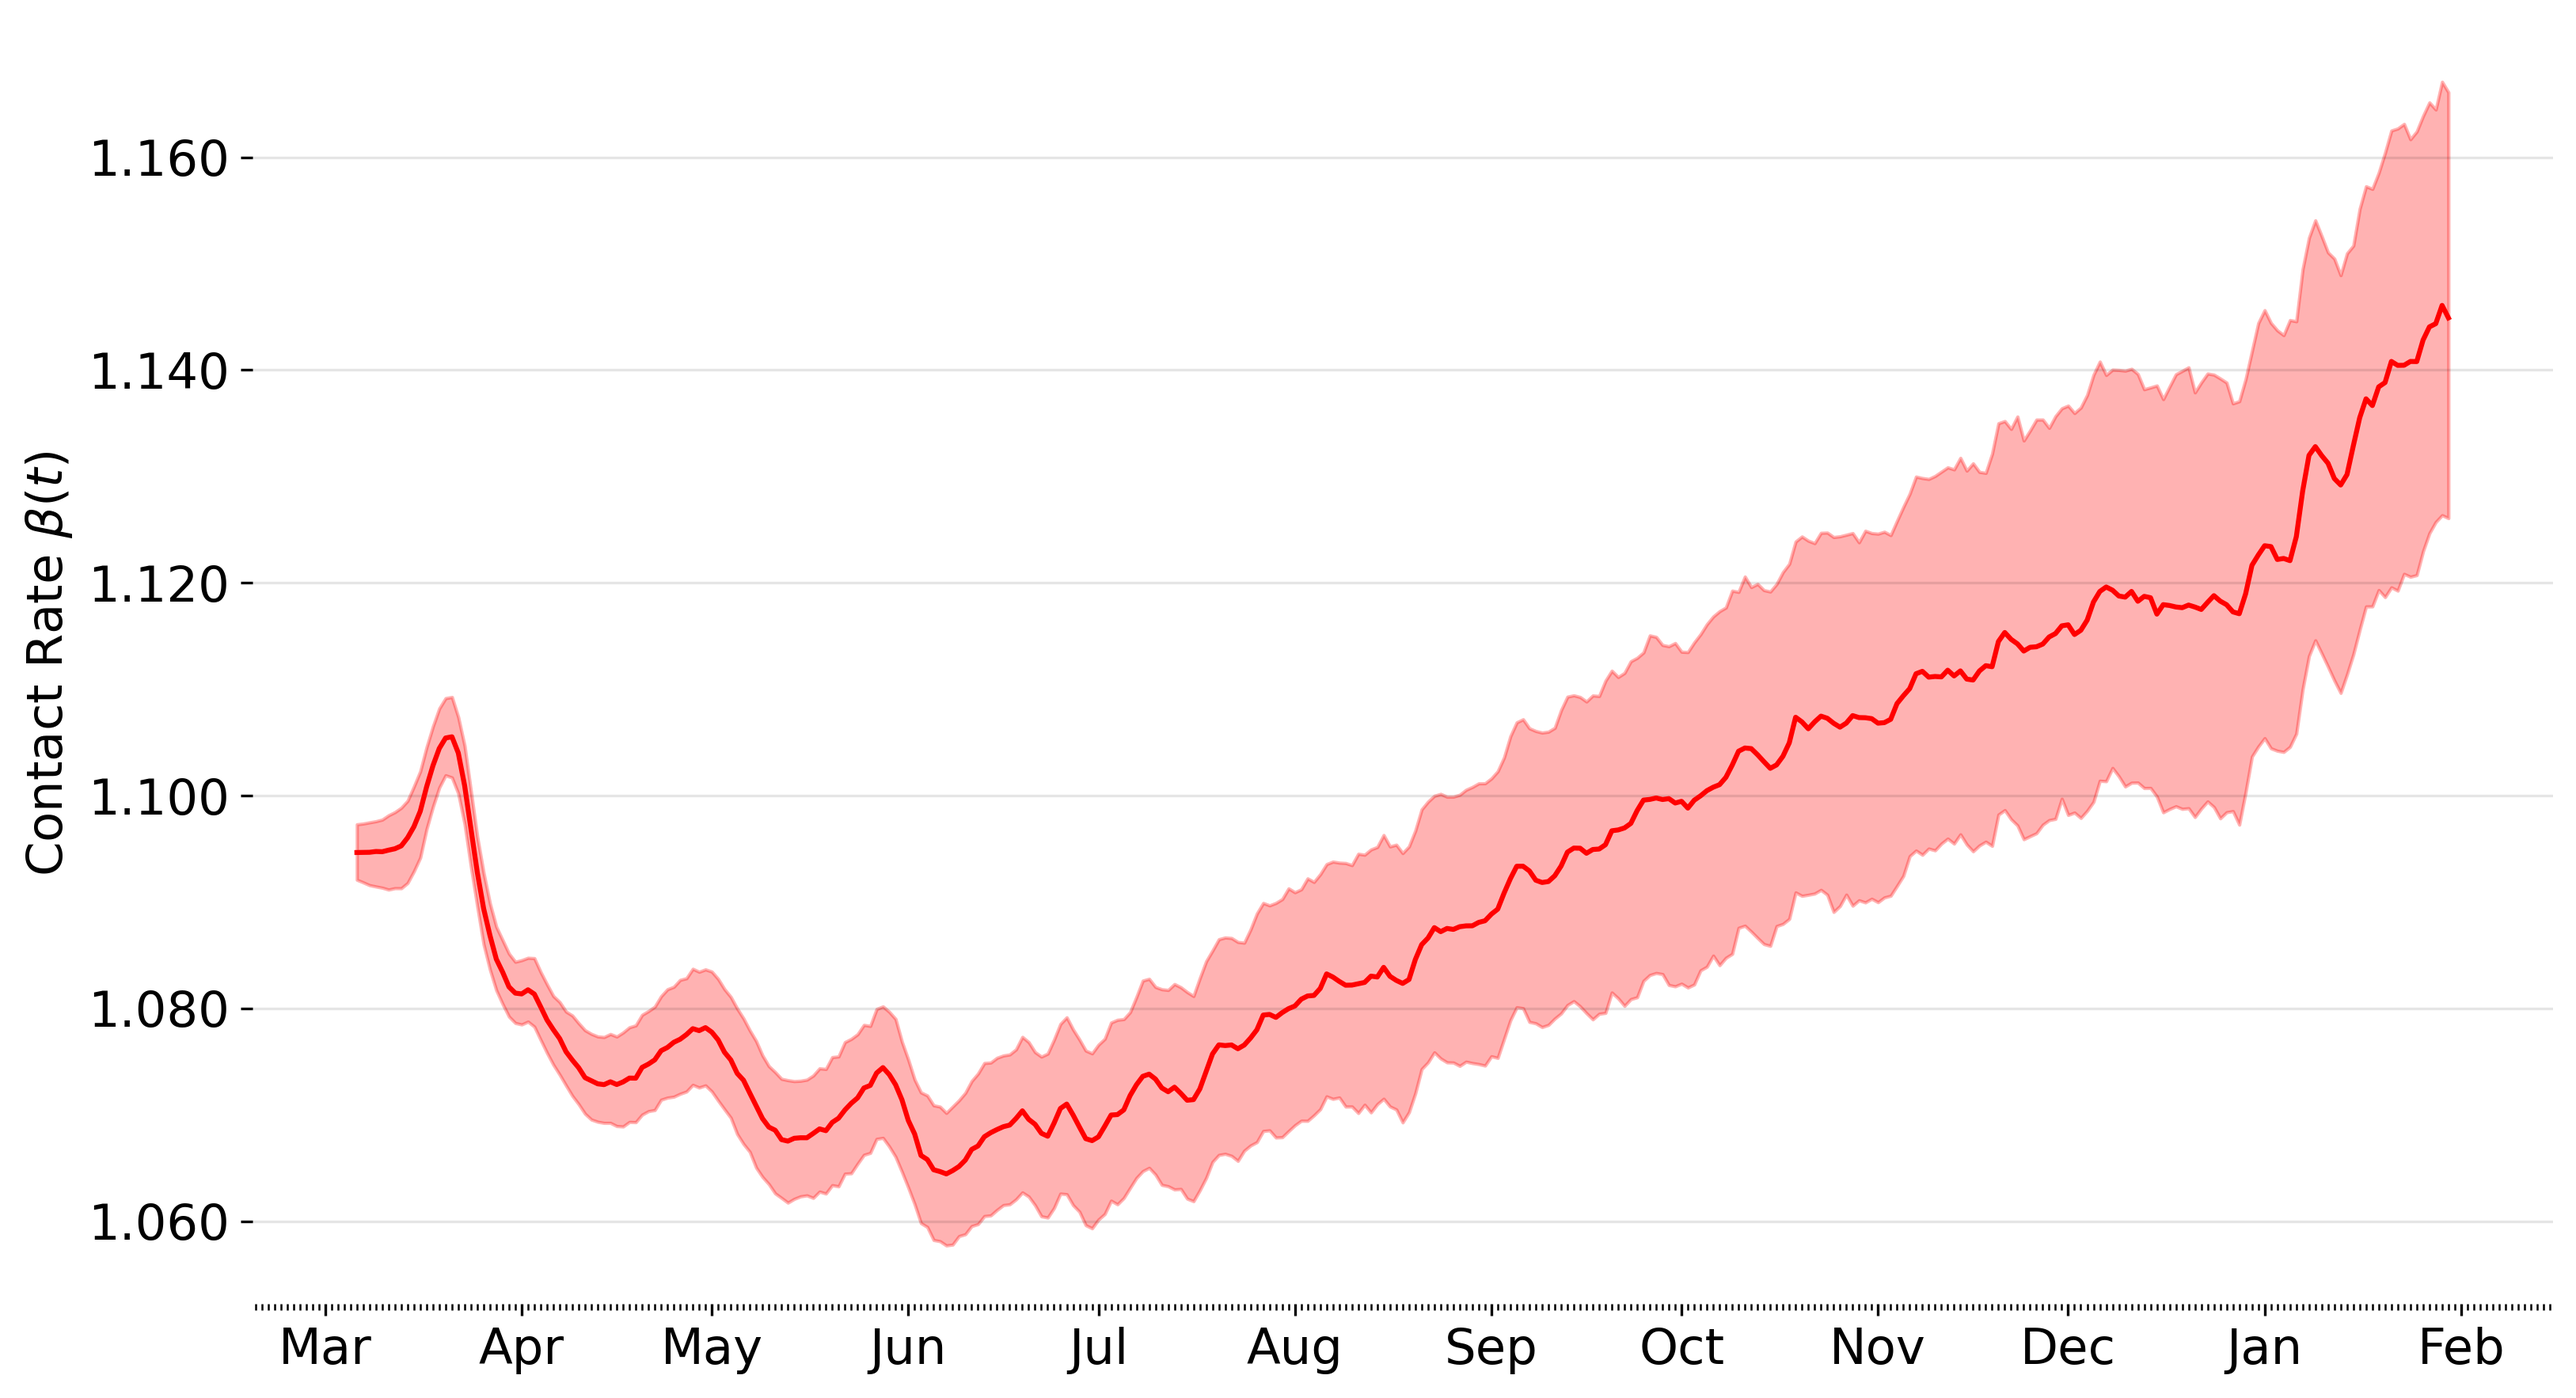
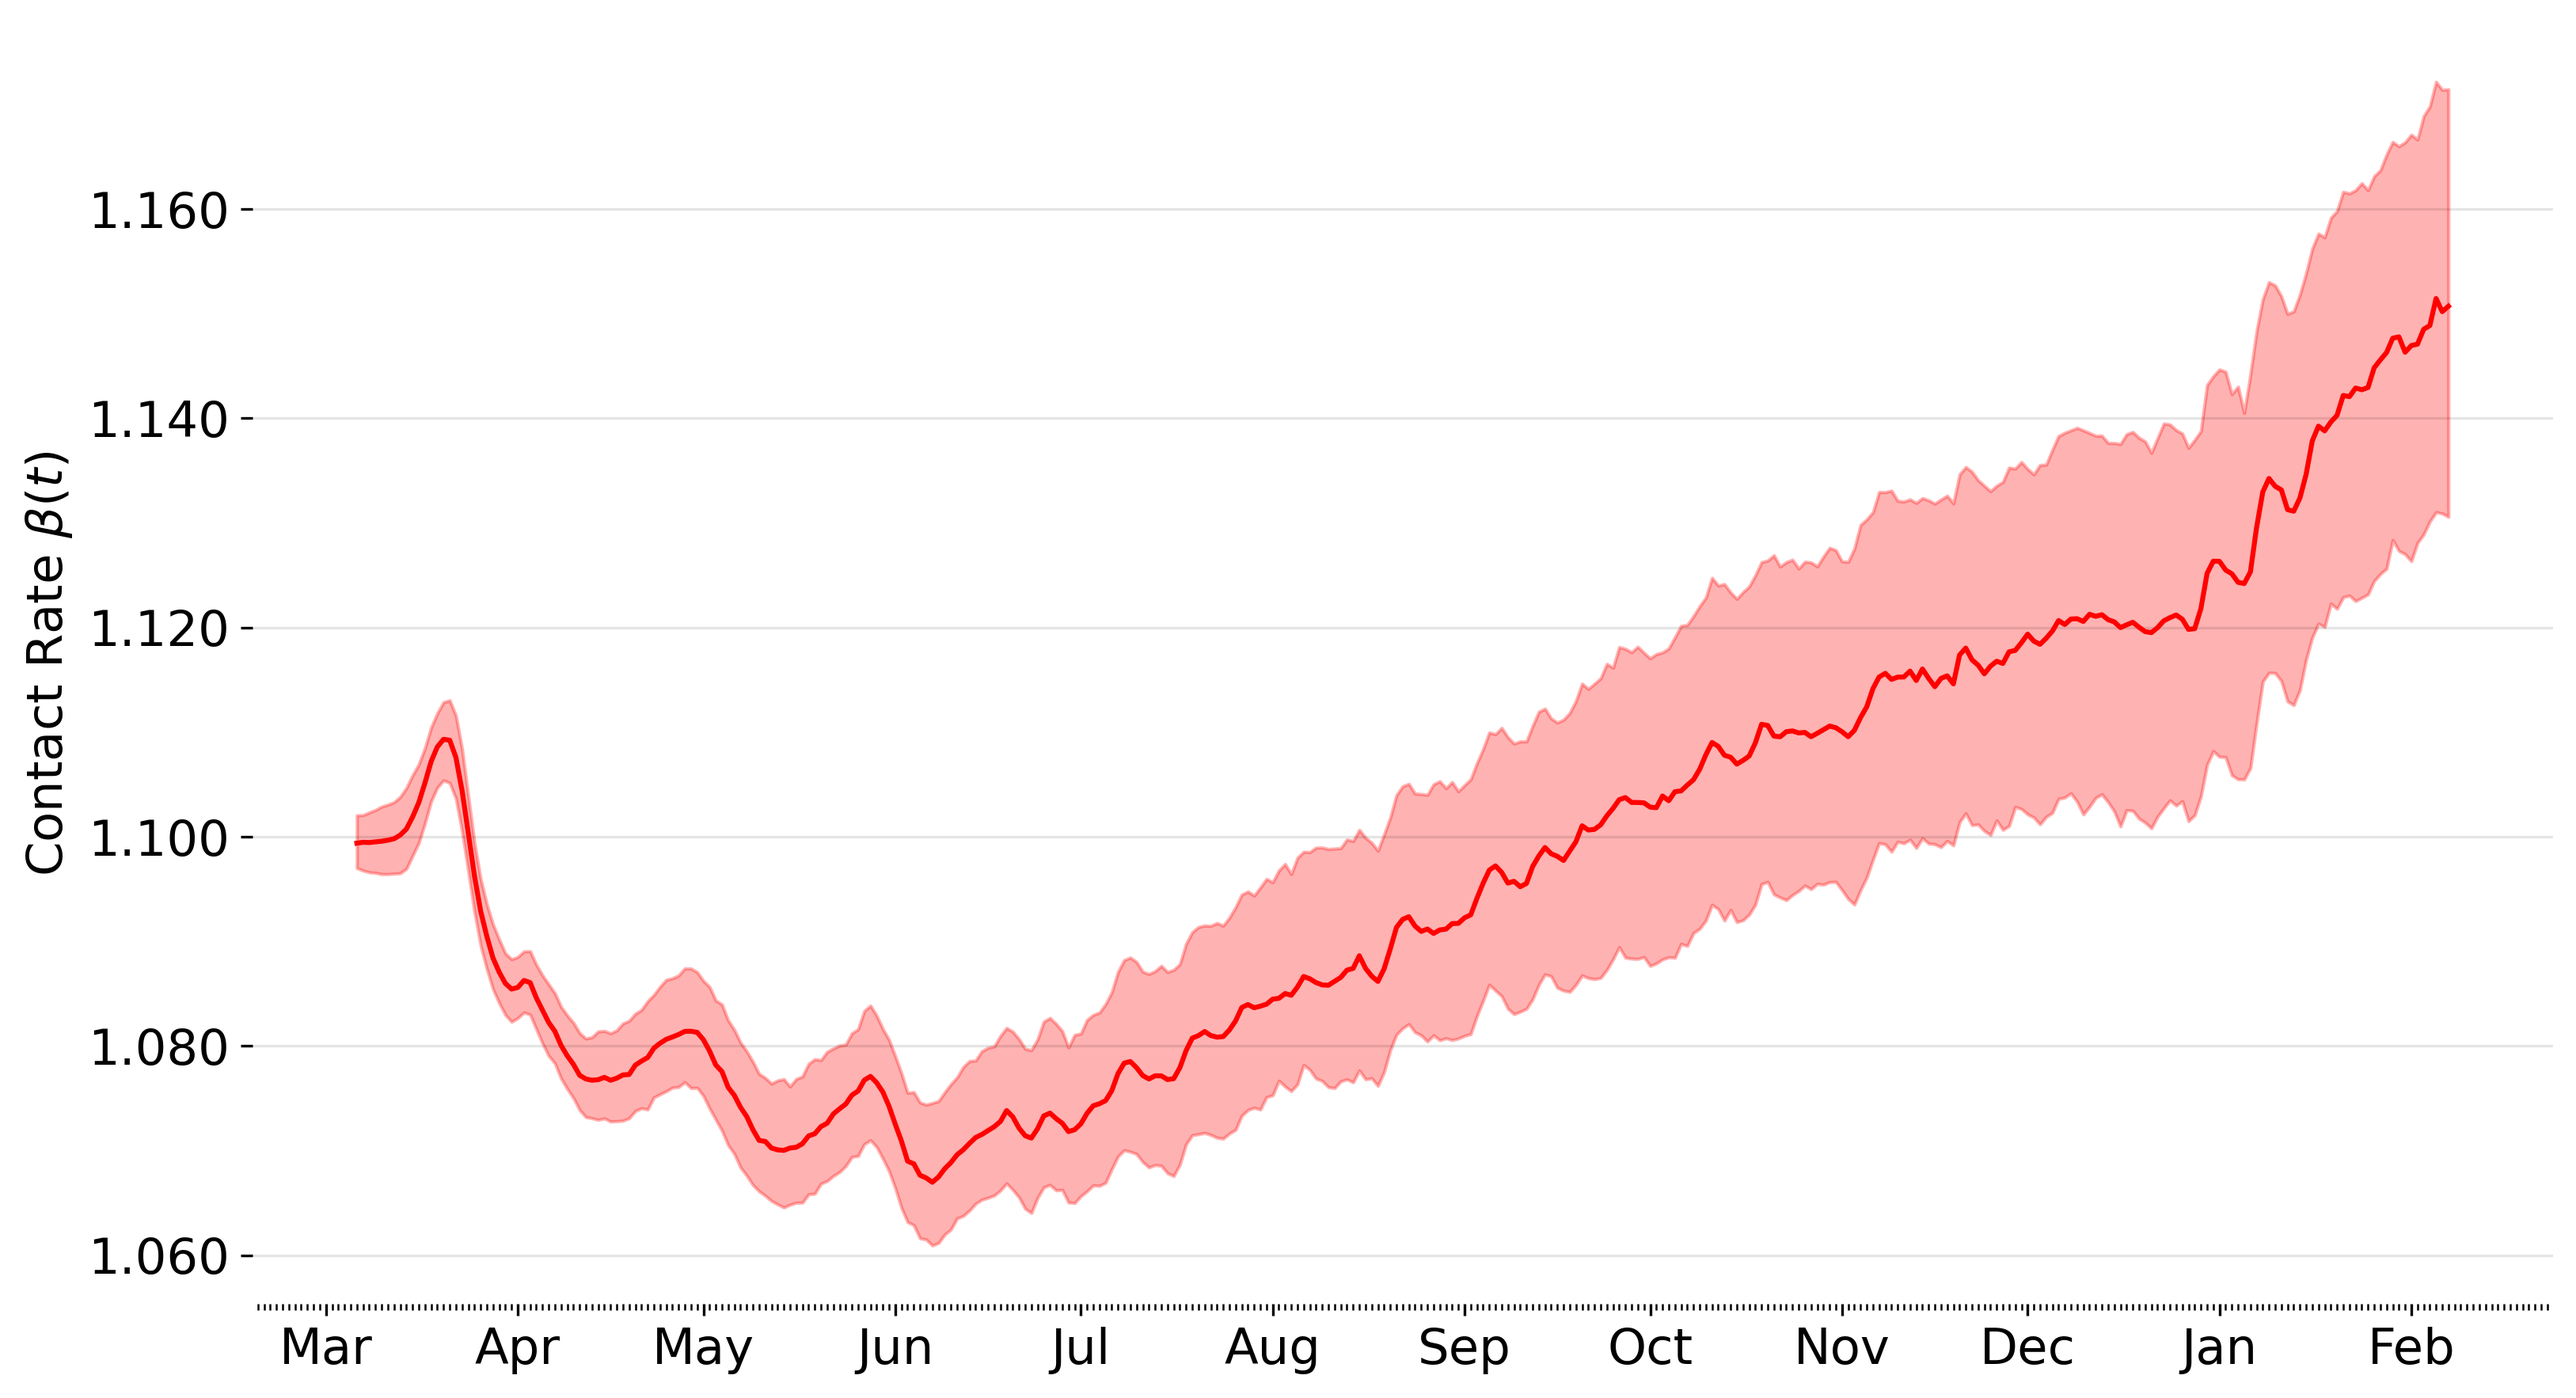
update

diff --git a/plot_parameters_figures.py b/plot_parameters_figures.py
@@ -7,7 +7,7 @@ from matplotlib import pyplot as plt
 from global_config import config
 
 from functions.adjust_cases_functions import prepare_cases
-from seir_model import SEIRD
+from models.seird_model import SEIRD
 
 import matplotlib.pyplot as plt
 import scipy.io as sio
@@ -66,8 +66,8 @@ beta_df = create_df_response(beta, beta.shape[-1], date_init ='2020-03-06', quan
 
 fig, ax = plt.subplots(1, 1, figsize=(15.5, 7))
 ax.plot(beta_df.index.values, beta_df["median"], color='darkred', alpha=0.4, label='Median - Nowcast')
-ax.fill_between(beta_df.index.values, beta_df["low_975"], beta_df["high_975"], color='darkred', alpha=0.4, label='95 CI - Nowcast')
-ax.fill_between(beta_df.index.values, beta_df["low_75"], beta_df["high_75"], color='darkred', alpha=0.4, label='95 CI - Nowcast')
+ax.fill_between(beta_df.index.values, beta_df["low_95"], beta_df["high_95"], color='darkred', alpha=0.4, label='95 CI - Nowcast')
+ax.fill_between(beta_df.index.values, beta_df["low_80"], beta_df["high_80"], color='darkred', alpha=0.4, label='95 CI - Nowcast')
 (y1_l, y2_l) = ax.get_ylim()
 # ax.scatter(dates_forecast, median[num_times-1:num_times+num_forecast-1], edgecolor='k', facecolor='white')#, label='Deaths')
 ax.xaxis.set_major_locator(mdates.MonthLocator())
